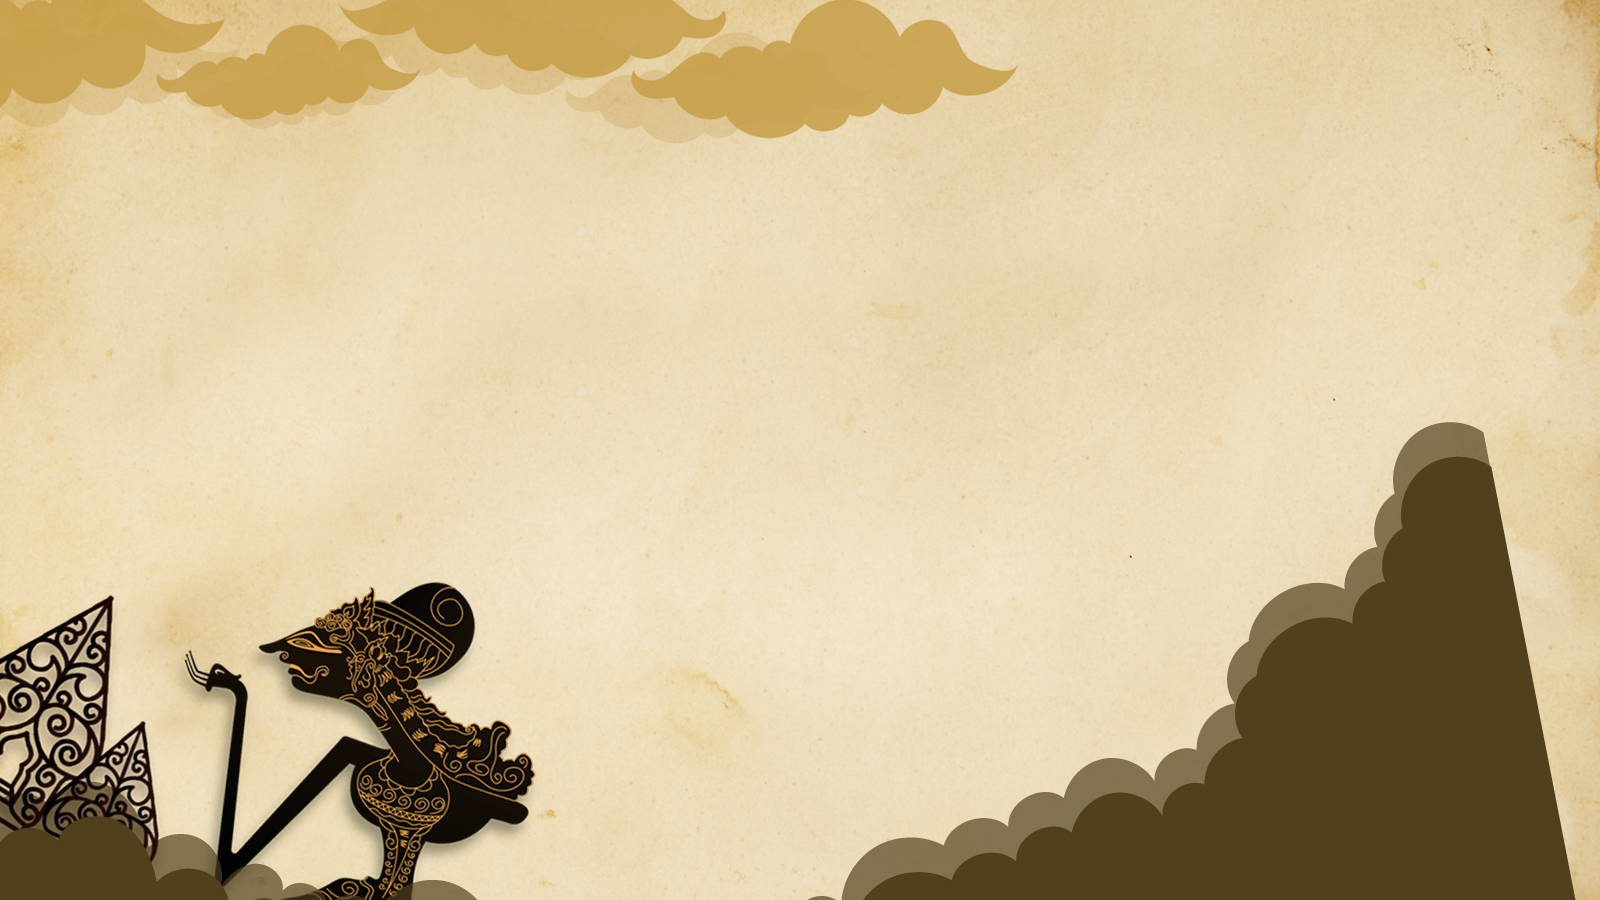
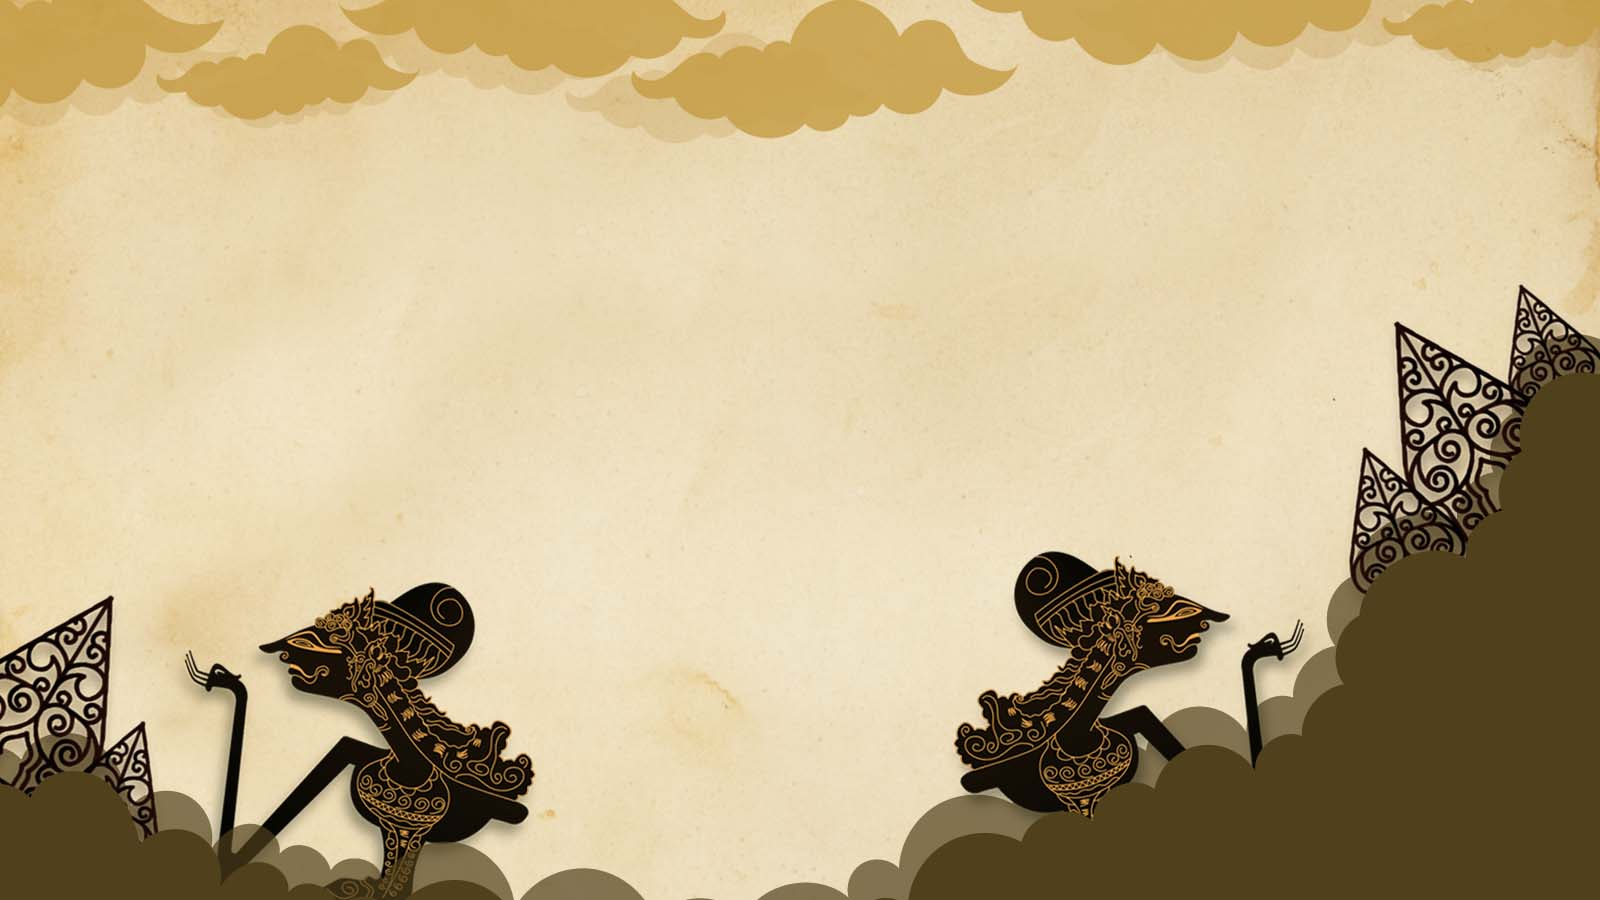
perbaikan

Changed region(s): [[0.0, 0.3111, 1.0, 1.0], [0.5938, 0.0, 1.0, 0.0933]]

diff --git a/khitan-ganesha/index.html b/khitan-ganesha/index.html
@@ -456,6 +456,7 @@
 
                 <div class="nav__menu" id="nav-menu" style="background: #fff;">
                     <ul class="nav__list" style="list-style: none;margin: 5px 1px 1px -25px;">
+						
                         <li class="nav__item">
                             <a href="#"  class="nav__link active-link btnBukaUndangan">
                                 <!-- <i class='bx bx-home-alt nav__icon'></i> -->
@@ -477,6 +478,14 @@
                                 <!-- <i class='bx bx-user nav__icon'></i> -->
 								<i class="icon-map-marker"></i>
                                 <span class="nav__name">LOKASI</span>
+                            </a>
+                        </li>
+
+						<li class="nav__item">
+                            <a href="#about"  data-nav-section="gallery" class="nav__link">
+                                <!-- <i class='bx bx-user nav__icon'></i> -->
+								<i class="icon-file-photo-o"></i>
+                                <span class="nav__name">GALLERY</span>
                             </a>
                         </li>
 
@@ -676,7 +685,7 @@
 
 	
 
-	<div id="qbootstrap-groom-bride"  data-section="dengan-rahmat" data-stellar-background-ratio="0.5" style="background-image: url(images/background-aab.jpg);">
+	<div id="qbootstrap-groom-bride"  data-section="dengan-rahmat" data-stellar-background-ratio="0.5" style="background-image: url(images/background-aabb.jpg);">
 		<div class="container">
 
 			<div class="py-5 animate-box">
@@ -710,30 +719,38 @@
 
 			<div class="py-5" >
 				<div class="container">
-				  <div class="text-center" style="font-size: 15px;">
-					<h3 class="txt-mayoriti">Waktu dan Tempat</h3>
-					Bahagia rasanya apabila anda berkenan hadir dan memberikan doa di acara kami yang akan dilangsungkan pada :
+				  <div class="text-center" style="font-size: 16px;">
+					<div class="btn btn-primary">
+						<h4 style="
+						margin-top: 0px;
+						margin-bottom: 0px;
+						color: white !important;
+						text-transform: capitalize;
+					">Waktu dan Tempat</h4>
+					</div>
+					<br/>
+					Rasa haru dan bahagia serta puji syukur kehadirat Allah SWT atas limpahan rahmat-Nya dan atas ridho-Nya sebagai ungkapan 
+					rasa syukur kami akan menyelenggarakan Resepsi Tasyakuran Khitan putra kami InsyaAllah besok pada :
+					<hr class="my-4">
+					<p style="margin-bottom: -3px;"><b style="font-size: 20px;">Minggu, 19 Februari 2023</b></p>
+					<div class="mb-0 txt-mayoriti jam_acara"><b style="font-size: 20px;">13:00 WIB s/d Selesai</b></div>
+					<hr>
 				  </div>
 				  <br/>
-				  <div class="p-4 card hover bg-white text-center radius-10 mt-4">
-					<hr class="my-4">
-					<h3 class="mb-0 txt-mayoriti "> Khitan </h3>
-					<p style="margin-bottom: -3px;
-				"> Minggu, 19 Februari 2023</p>
-					<div class="mb-0 txt-mayoriti jam_acara">13:00 WIB s/d Selesai</div>
-					<div class="mt-4 alamat_acara"><i class="alamat_tempat"></i></div>
-					<hr>
+				  <div class="p-4 card hover bg-white text-center radius-10 mt-4" style="margin-top: -50px; background-image: url('images/background-aac.jpg'); padding: 20px;" >
 					<h3 class="mb-0 txt-mayoriti "> Hiburan <br/>Pegelaran Wayang Kulit</h3>
 					<p style="margin-bottom: -3px;
 				"> Minggu, 19 Februari 2023</p>
 					<div class="mb-0 txt-mayoriti">19:30 s/d Selesai</div>
 					<div class="mt-4 alamat_acara">
-						<h4 class="mb-0 txt-mayoriti "> Dalang:</h4>
-						<h3 class="mb-0 txt-mayoriti "> Ki Jagad Bilowo</h3>
-						<h4 class="mb-0 txt-mayoriti "> Dengan Lakon:</h4>
-						<h3 class="mb-0 txt-mayoriti "> " WAHYU KAMULYAN "</h3>
-						<h4 class="mb-0 txt-mayoriti "> Dhagelan:</h4>
-						<h3 class="mb-0 txt-mayoriti "> Gareng Purwodadi <br/>(Mas Danang)</h3>
+						<p class="mb-0 txt-mayoriti "><b>Dalang:</b></p>
+						<h3 class="mb-0 txt-mayoriti" style="margin-top: -27px;"> Ki Jagad Bilowo</h3>
+
+						<p class="mb-0 txt-mayoriti "> <b>Dengan Lakon:</b></p>
+						<h3 class="mb-0 txt-mayoriti" style="margin-top: -27px;"> " Wahyu Kamulyan "</h3>
+
+						<p class="mb-0 txt-mayoriti "><b> Dhagelan:</b></p>
+						<h3 class="mb-0 txt-mayoriti" style="margin-top: -27px;"> Gareng Purwodadi <br/>(Mas Danang)</h3>
 					</div>
 				  </div>
 
@@ -744,15 +761,18 @@
 			
 			<div class="row">
 				<div class="col-md-12">
-					<center><h4 class="mb-0 txt-mayoriti" >Lokasi</h4></center>
+					<center><h3 class="mb-0 txt-mayoriti" >Lokasi</h3></center>
 					<div id="map" class="qbootstrap-map"></div>
-					<iframe src="https://www.google.com/maps/embed?pb=!1m17!1m12!1m3!1d3960.3335160926786!2d110.44255161496395!3d-6.9699234949646875!2m3!1f0!2f0!3f0!3m2!1i1024!2i768!4f13.1!3m2!1m1!2zNsKwNTgnMTEuNyJTIDExMMKwMjYnNDEuMSJF!5e0!3m2!1sen!2sid!4v1674997432308!5m2!1sen!2sid" width="100%" height="450" style="border:0;" allowfullscreen="" loading="lazy" referrerpolicy="no-referrer-when-downgrade"></iframe>
+					<iframe src="https://www.google.com/maps/embed?pb=!1m17!1m12!1m3!1d3960.3335160926786!2d110.44255161496395!3d-6.9699234949646875!2m3!1f0!2f0!3f0!3m2!1i1024!2i768!4f13.1!3m2!1m1!2zNsKwNTgnMTEuNyJTIDExMMKwMjYnNDEuMSJF!5e0!3m2!1sen!2sid!4v1674997432308!5m2!1sen!2sid" width="100%" height="280" style="border:0;" allowfullscreen="" loading="lazy" referrerpolicy="no-referrer-when-downgrade"></iframe>
 				</div>
 				<div class="col-md-12">
 					
 					<center>
-						<h3>Scan Lokasi</h3><img src="images/wew.png" width="100%">
-						<a href="https://goo.gl/maps/oRfm3ry7D1Nc6VXb8" class="btn btn-default btn-block">Klik Ke Lokasi</a>
+						<h3 class="btn btn-primary mt-3" id="btn_scn_lokasi" style="text-transform: capitalize;">Scan Lokasi</h3>
+						
+						<img src="images/wew.png" style="display: none;" class="img_qr"
+						 width="100%">
+						<a href="https://goo.gl/maps/oRfm3ry7D1Nc6VXb8" class="btn btn-default btn-block img_qr" style="display: none;">Klik Ke Lokasi</a>
 					</center>
 				</div>
 			</div>
@@ -760,70 +780,93 @@
 		</div>
 	</div>
 
-	<div id="qbootstrap-when-where" data-section="rundown">
+	<style>
+		td p{
+			
+			text-align: left;
+			margin:-10px;
+			padding:18px;
+
+		}
+	</style>
+	
+	<div id="qbootstrap-when-where" data-section="rundown" data-stellar-background-ratio="0.5" style="background-image: url('images/background-aabb.jpg'); background-position: 0px -68.5px;">
 		<div class="container">
-		  <div class="py-5" >
-			<div class="container">
-			  <div class="text-center">
-				<h2 class="txt-mayoriti">Rundown Acara</h2>
-				<div>
-				  Berikut Acara Rundown Acara kami.
-				</div>
-			  </div>
+			<div class="py-5" >
+				<div class="container">
+					<div class="text-center">
+						<h2 class="txt-mayoriti">Rundown Acara</h2>
+					</div>
 			  
-			  
-			  <h4 class="mb-0 txt-mayoriti text-center">Sabtu, 18 Feb 2023  </h4>
-			  <div class="card p-4 bg-white text-center radius-120 card-undangan mt-4">
-				<!-- <h4 class="mb-0 txt-mayoriti">Kegiatan 1  </h4> -->
-				<hr class="my-4">
-				<h4 class="mb-0 txt-mayoriti">Pembacaan hafiz qur'an 30 juz </h4>
-				06:00
-				<div class="mt-4"> </div>
-			  </div>
-			  <div class="card p-4 bg-white text-center radius-120 card-undangan mt-4">
-				<!-- <h4 class="mb-0 txt-mayoriti">Kegiatan 1  </h4> -->
-				<hr class="my-4">
-				<h4 class="mb-0 txt-mayoriti">Kirab manten sunat </h4>
-				12:00
-				<div class="mt-4"> </div>
-			  </div>
-			  
-			  <div class="card p-4 bg-white text-center radius-120 card-undangan mt-4">
-				<!-- <h4 class="mb-0 txt-mayoriti">Kegiatan 1  </h4> -->
-				<hr class="my-4">
-				<h4 class="mb-0 txt-mayoriti">Khataman qur'an 30 juz </h4>
-				15:00
-				<div class="mt-4"> </div>
-			  </div>
-
-
-			<h4 class="mb-0 txt-mayoriti text-center" style="margin-top: 60px;">Minggu, 19 feb 2023 </h4>
-			<div class="card p-4 bg-white text-center radius-120 card-undangan mt-4">
-				<hr class="my-4">
-				<h4 class="mb-0 txt-mayoriti">Prosesi khitan </h4>
-				08:00
-				<div class="mt-4"></div>
-			</div>
-			
-			<div class="card p-4 bg-white text-center radius-120 card-undangan mt-4">
-				<hr class="my-4">
-				<h4 class="mb-0 txt-mayoriti">Syukuran khitan </h4>
-				14:00
-				<div class="mt-4"></div>
-			</div>
-			
-			<div class="card p-4 bg-white text-center radius-120 card-undangan mt-4">
-				<hr class="my-4">
-				<h4 class="mb-0 txt-mayoriti">Pertunjukan pagelaran wayang kulit </h4>
-				19:00
-				<div class="mt-4"></div>
-			</div>
-
+					<table border="0">
+						<tr>
+							<td colspan="2">
+								<h3 class="mb-0 txt-mayoriti text-center">Sabtu, 18 Feb 2023  </h3>
+							</td>
+						</tr>         
+						<tr>
+							<td>06:00</td>
+							<td>
+							<p class="mb-0 txt-mayoriti">Pembacaan hafiz qur'an 30 juz </p>
+							</td>
+						</tr>
+						<tr>
+							<td colspan="2"><hr class="my-4"></td>
+						</tr>	
+						<tr>
+							<td>12:00</td>
+							<td>
+								<p class="mb-0 txt-mayoriti">Kirab manten sunat </p>
+							</td>
+						</tr>
+						<tr>
+							<td colspan="2"><hr class="my-4"></td>
+						</tr>
+						<tr>
+							<td> 15.00</td>
+							<td>
+								<p class="mb-0 txt-mayoriti">Khataman qur'an 30 juz </p>
+							</td>
+						</tr>
+						<tr>
+							<td colspan="2"><hr class="my-4"></td>
+						</tr>
+						<tr>
+							<td colspan="2">
+								<h3 class="mb-0 txt-mayoriti text-center">Minggu, 19 feb 2023 </h3>
+							</td>
+						</tr>
+						<tr>
+							<td>08:00</td>
+							<td>
+								<p class="mb-0 txt-mayoriti">Prosesi khitan </p>
+							</td>
+						</tr>
+						<tr>
+							<td colspan="2"><hr class="my-4"></td>
+						</tr>
+						<tr>
+							<td>14:00</td>
+							<td>
+								<p class="mb-0 txt-mayoriti">Syukuran khitan </p>
+							</td>
+						</tr>
+						<tr>
+							<td colspan="2"><hr class="my-4"></td>
+						</tr>
+						<tr>
+							<td>19:00</td>
+							<td>
+								<p class="mb-0 txt-mayoriti">Pertunjukan pagelaran wayang kulit </p>
+							</td>
+						</tr>
+						
+					</table>
 				
+				</div> 
 			</div>
-		  </div>
 		</div>
-	  </div>
+	</div>
 
 
 
@@ -891,7 +934,7 @@
 	
 	
 	<div id="qbootstrap-when-where" data-section="kado">
-		<div class="container">
+		<div class="container" style="margin-top: -100px;">
 		  <div class="py-5" >
 			<div class="container">
 			  <div class="text-center">
@@ -903,7 +946,7 @@
 			  </div>
 			  <div class="text-center">
 
-				<p>~ <i class="nama_anak"></i> &amp; Family</p>
+				<p><i class="nama_anak"></i> &amp; Family</p>
 				<p></p>
 			  </div>
 			  <div
@@ -913,7 +956,7 @@
 				  
 				  src="images/bj.png"
 				  class="img-fluid w-100 radius-10"
-				  style="width: 100%;"
+				  style="width: 60%;"
 				  alt=""
 				/>
 			  </div>
@@ -924,7 +967,7 @@
 				<button
 				  class="btn"
 				  style="
-					background-color: #ffb100;
+					background-color: #5f3e08;
 					border-radius: 20px;
 					color: #ffffff;
 				  "
@@ -940,7 +983,7 @@
 			  <img
 			  src="images/bca.jpg"
 				class="img-fluid w-100 radius-10"
-				style="width: 100%;margin-top: 10px;"
+				style="width: 60%;margin-top: 10px;"
 				alt=""
 			  />
 			</div>
@@ -951,7 +994,7 @@
 			  <button
 				class="btn"
 				style="
-				  background-color: #ffb100;
+				  background-color: #5f3e08;
 				  border-radius: 20px;
 				  color: #ffffff;
 				"
@@ -998,7 +1041,7 @@
 	  </div>
 	  
 
-	<div id="qbootstrap-started" class="qbootstrap-bg" data-section="rsvp" data-stellar-background-ratio="0.5" style="background-image: url(images/background-aaa.jpg);">
+	<div id="qbootstrap-started" class="qbootstrap-bg" data-section="rsvp" data-stellar-background-ratio="0.5" style="background-image: url(images/background-aab.jpg);">
 		<div class="overlay"></div>
 		<div class="container">
 			<div class="row animate-box">
@@ -1324,6 +1367,10 @@
 	
 	// });
 	
+	$('#btn_scn_lokasi').click(function(){
+		$('.img_qr').show();
+		
+	});
 	$('#mute_sound').click(function(){
 		$('#unmute_sound').show();
 		$('#mute_sound').hide();

diff --git a/khitan-ganesha/js/main.js b/khitan-ganesha/js/main.js
@@ -252,7 +252,7 @@
 	
 
 	// Set the date we're counting down to
-		var countDownDate = new Date("Jul 25, 2023 10:37:25").getTime();
+		var countDownDate = new Date("Feb 18, 2023 06:00:00").getTime();
 
 		// Update the count down every 1 second
 		var x = setInterval(function() {

diff --git a/khitan-ganesha/css/style.css b/khitan-ganesha/css/style.css
@@ -1048,7 +1048,7 @@ h1, h2, h3, h4, h5, h6 {
   width: 56px;
   height: 56px;
   margin-top: -30px;
-  background: #859042;
+  background: #ffc107;
   -webkit-border-radius: 50%;
   -moz-border-radius: 50%;
   -ms-border-radius: 50%;
